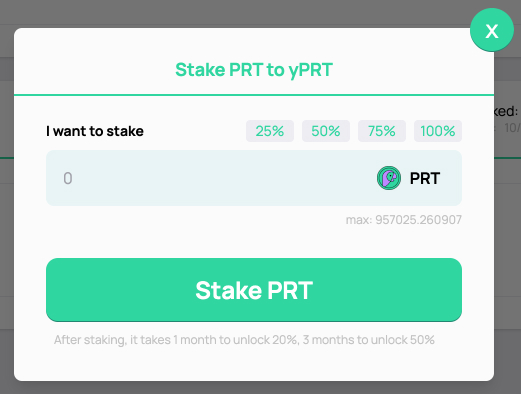
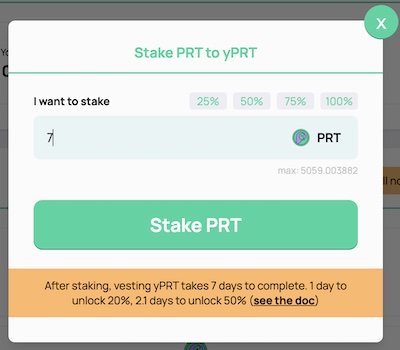
update yprt docs

diff --git a/src/guide/yprt.md b/src/guide/yprt.md
@@ -5,11 +5,11 @@ yPRT is the Parrot Yield Token. Holding yPRT entitles you to protocol incentives
 - Staking PRT, to convert PRT into yPRT
 - Vesting yPRT, to unlock yPRT back to PRT
 
-Vesting yPRT takes 12 months to complete. In the first month you will get 20% unlocked, and in the third month you will get 50% unlocked.
+Vesting yPRT takes 7 days to complete. In the first day you will get 20% unlocked, and in the 2.1 day you will get 50% unlocked.
 
 # Staking PRT
 
-Visit https://parrot.fi/yprt.
+Visit [https://parrot.fi/yprt](https://parrot.fi/yprt).
 
 Click on "Stake" to stake PRT and get yPRT:
 
@@ -47,24 +47,6 @@ You can claim the vested PRT by clicking the "Claim PRT" button:
 
 At any time you may add or remove the amount of yPRT you are vesting.
 
-Here's a table of the % of vesting yPRT that will be unlocked each month:
-
-```
-1	20.6298
-2	37.0036
-3	49.9996
-4	60.3146
-5	68.5016
-6	74.9996
-7	80.1572
-8	84.2507
-9	87.4997
-10	90.0785
-11	92.1253
-12	93.7498
-...
-```
-
-By the end of 3 months, 50% will be unlocked. Theoretically this goes on forever, but at the end of 12 months the vesting vault will allow you to claim all the remaining PRT tokens.
+By the end of 2.1 days, 50% will be unlocked. Theoretically this goes on forever, but at the end of 7 days the vesting vault will allow you to claim all the remaining PRT tokens.
 
 However, the vesting yPRT tokens would no longer receive protocol incentives. If you'd like to stop vesting, you may click on "Unvest yPRT" at any time.
